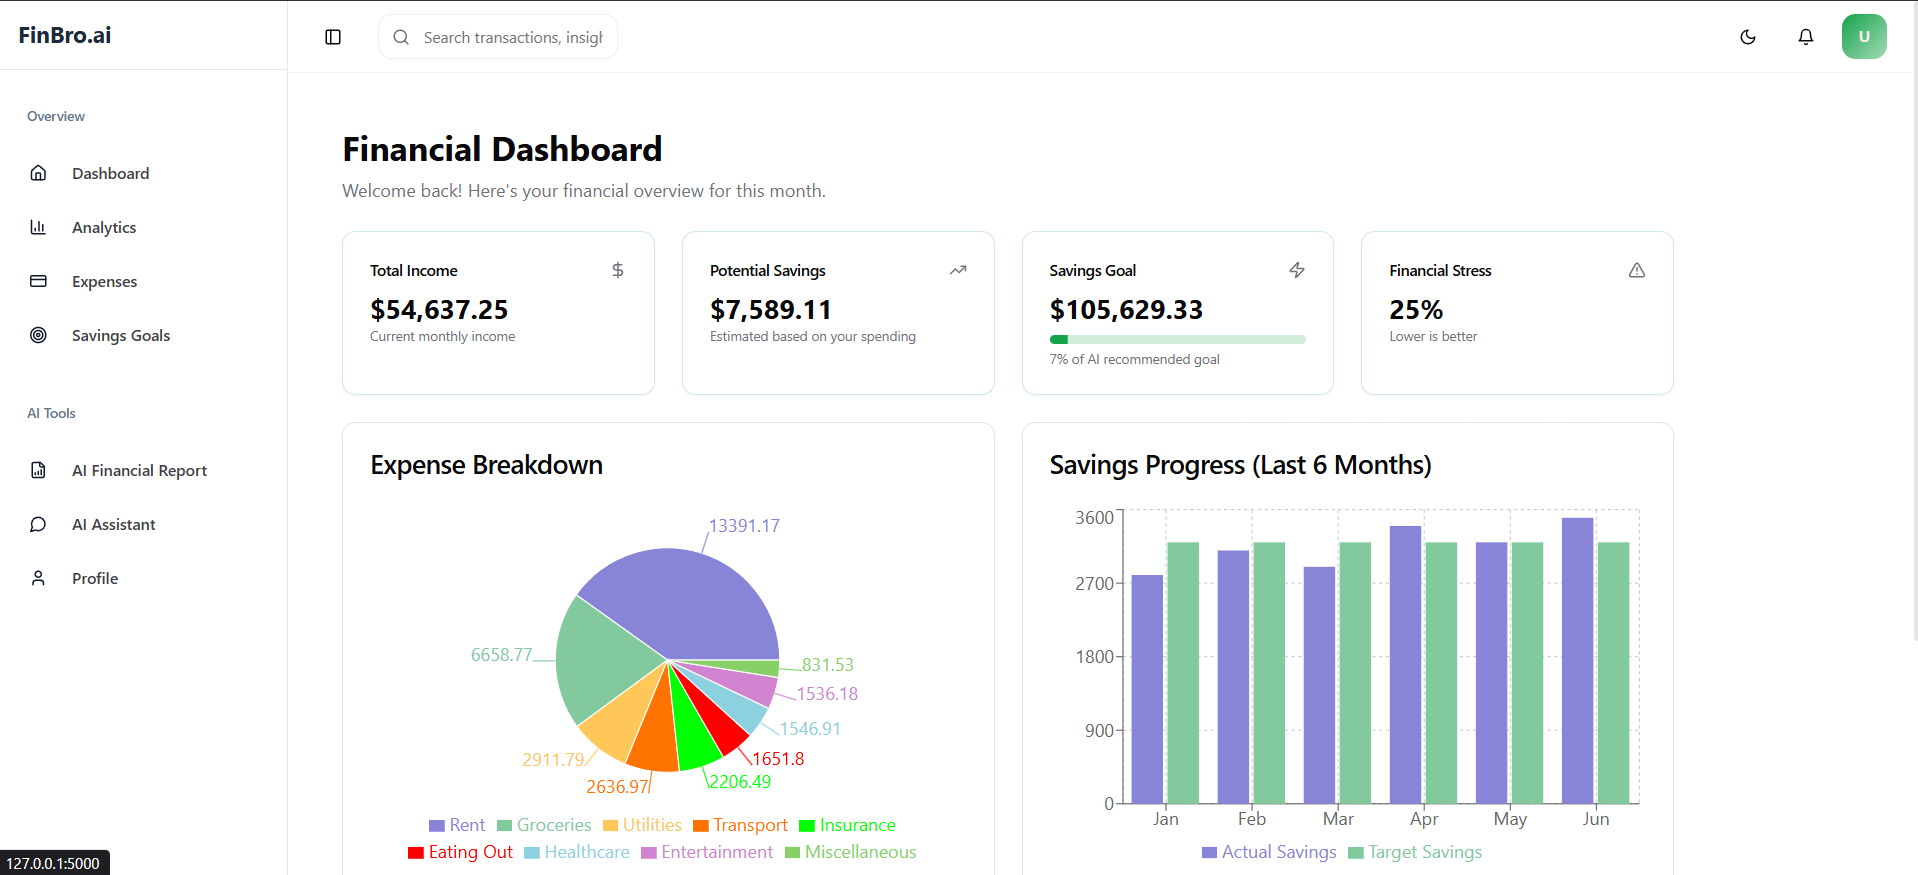
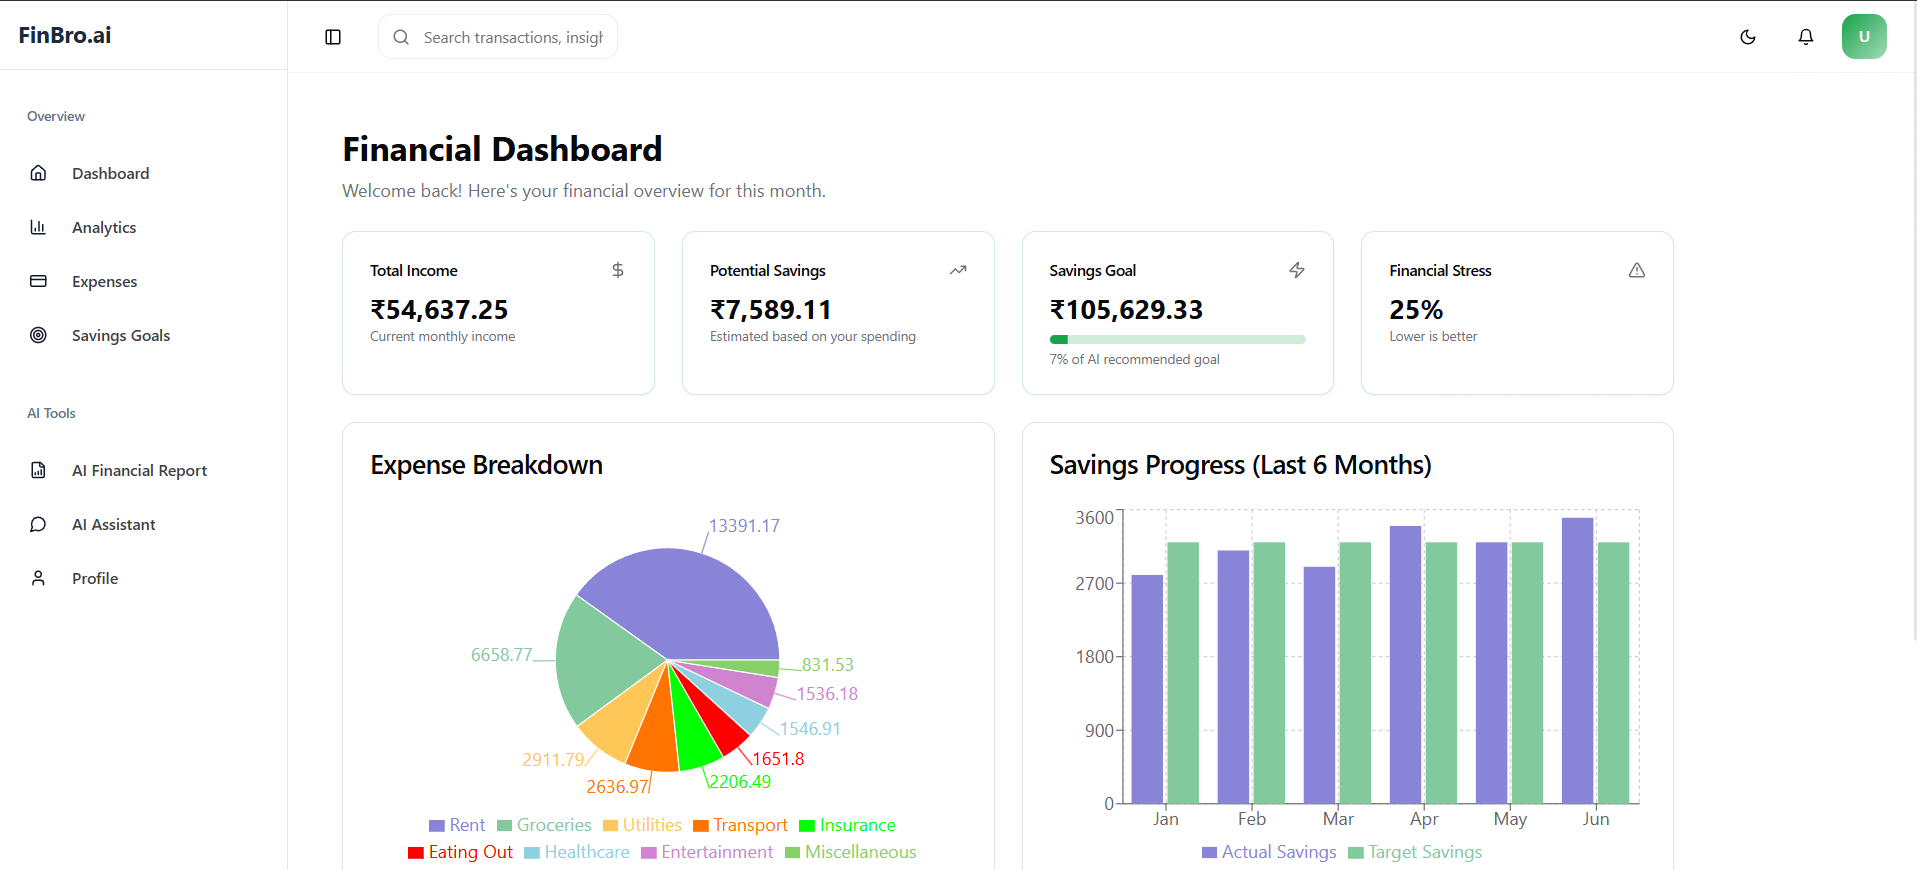
updated dollar in dashboard

diff --git a/frontend/src/pages/Dashboard.tsx b/frontend/src/pages/Dashboard.tsx
@@ -99,7 +99,7 @@ const Dashboard = () => {
             <DollarSign className="h-4 w-4 text-muted-foreground" />
           </CardHeader>
           <CardContent>
-            <div className="text-2xl font-bold">${displayUserData.Income?.toLocaleString() || 'N/A'}</div>
+            <div className="text-2xl font-bold">₹{displayUserData.Income?.toLocaleString() || 'N/A'}</div>
             <p className="text-xs text-muted-foreground">Current monthly income</p>
           </CardContent>
         </Card>
@@ -110,7 +110,7 @@ const Dashboard = () => {
             <TrendingUp className="h-4 w-4 text-muted-foreground" />
           </CardHeader>
           <CardContent>
-            <div className="text-2xl font-bold">${displayUserData.Actual_Savings_Potential?.toLocaleString() || 'N/A'}</div>
+            <div className="text-2xl font-bold">₹{displayUserData.Actual_Savings_Potential?.toLocaleString() || 'N/A'}</div>
             <p className="text-xs text-muted-foreground">Estimated based on your spending</p>
           </CardContent>
         </Card>
@@ -121,7 +121,7 @@ const Dashboard = () => {
             <Zap className="h-4 w-4 text-muted-foreground" />
           </CardHeader>
           <CardContent>
-            <div className="text-2xl font-bold">${mlDisplayResults.amount_model.recommended_savings?.toLocaleString() || 'N/A'}</div>
+            <div className="text-2xl font-bold">₹{mlDisplayResults.amount_model.recommended_savings?.toLocaleString() || 'N/A'}</div>
             <Progress value={savingsGoalProgress} className="mt-2 h-2" />
             <p className="text-xs text-muted-foreground mt-1">{savingsGoalProgress.toFixed(0)}% of AI recommended goal</p>
           </CardContent>
@@ -212,7 +212,7 @@ const Dashboard = () => {
             <CardTitle>AI Recommended Action</CardTitle>
           </CardHeader>
           <CardContent>
-            <p>Consider focusing on reducing <span className="font-semibold">{/* TODO: Add dynamic suggestion, e.g., highest non-essential expense */}</span> expenses. Our AI suggests potential savings of <span className="font-semibold">${mlDisplayResults.multi_task_model?.recommended_savings_amount?.toLocaleString()}</span> are possible.</p>
+            <p>Consider focusing on reducing <span className="font-semibold">{/* TODO: Add dynamic suggestion, e.g., highest non-essential expense */}</span> expenses. Our AI suggests potential savings of <span className="font-semibold">₹{mlDisplayResults.multi_task_model?.recommended_savings_amount?.toLocaleString()}</span> are possible.</p>
             <p className="text-sm text-muted-foreground mt-2">This is an AI-generated suggestion.</p>
           </CardContent>
         </Card>
